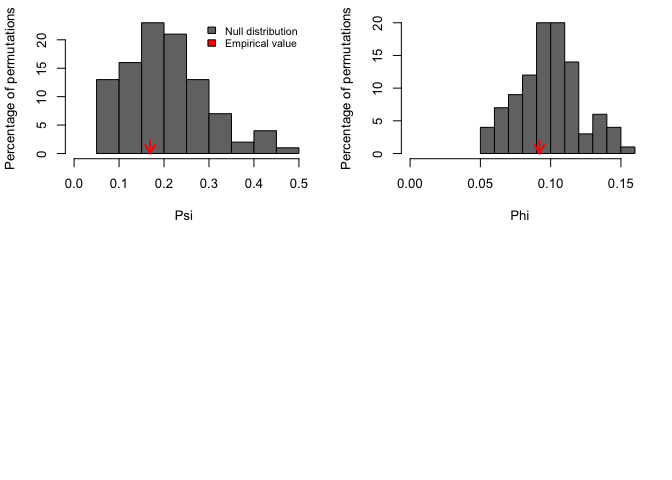
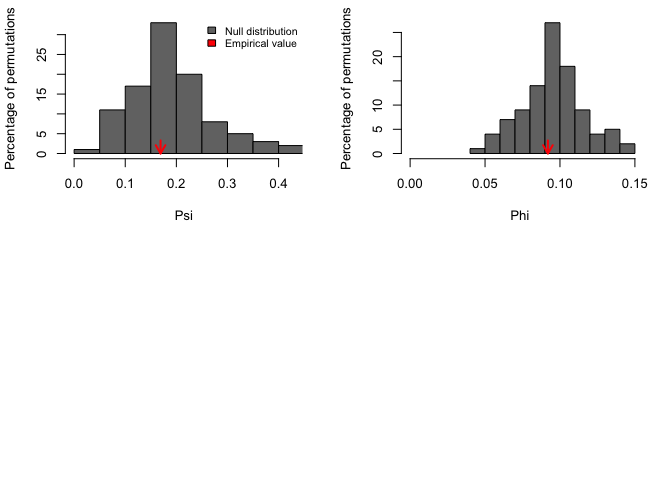
updata datasets

diff --git a/README.md b/README.md
@@ -52,13 +52,47 @@ result<-PCAtest(ex0, 100, 100, 0.05, varcorr=FALSE, counter=FALSE, plot=TRUE)
 #> 100 bootstrap replicates, 100 random permutations
 #> ========================================================
 #> 
-#> Empirical Psi = 0.1691, Max null Psi = 0.4885, Min null Psi = 0.0598, p-value = 0.66
-#> Empirical Phi = 0.0920, Max null Phi = 0.1563, Min null Phi = 0.0547, p-value = 0.66
+#> Empirical Psi = 0.1691, Max null Psi = 0.4296, Min null Psi = 0.0324, p-value = 0.59
+#> Empirical Phi = 0.0920, Max null Phi = 0.1466, Min null Phi = 0.0403, p-value = 0.59
 #> 
 #> PCA is not significant!
 ```
 
 <img src="man/figures/README-example1-1.png" width="100%" />
+
+``` r
+#PCA analysis of five correlated (r=0.25) variables
+data("ex025")
+result<-PCAtest(ex025, 100, 100, 0.05, varcorr=FALSE, counter=FALSE, plot=TRUE)
+#> 
+#> Sampling bootstrap replicates... Please wait
+#> 
+#> Calculating confidence intervals of empirical statistics... Please wait
+#> 
+#> Sampling random permutations... Please wait
+#> 
+#> Comparing empirical statistics with their null distributions... Please wait
+#> 
+#> ========================================================
+#> Test of PCA significance: 5 variables, 100 observations
+#> 100 bootstrap replicates, 100 random permutations
+#> ========================================================
+#> 
+#> Empirical Psi = 1.1327, Max null Psi = 0.5166, Min null Psi = 0.0680, p-value = 0
+#> Empirical Phi = 0.2380, Max null Phi = 0.1607, Min null Phi = 0.0583, p-value = 0
+#> 
+#> Empirical eigenvalue #1 = 1.88693, Max null eigenvalue = 1.57397, p-value = 0
+#> Empirical eigenvalue #2 = 1.01454, Max null eigenvalue = 1.22064, p-value = 0.99
+#> Empirical eigenvalue #3 = 0.8287, Max null eigenvalue = 1.13383, p-value = 1
+#> Empirical eigenvalue #4 = 0.79299, Max null eigenvalue = 0.98174, p-value = 0.94
+#> Empirical eigenvalue #5 = 0.47684, Max null eigenvalue = 0.85547, p-value = 1
+#> 
+#> PC 1 is significant and accounts for 37.7% (95%-CI:33.1-44.1) of the total variation
+#> 
+#> Variables 2, and 3 have significant loadings on PC 1
+```
+
+<img src="man/figures/README-example2-1.png" width="100%" />
 
 ``` r
 #PCA analysis of five correlated (r=0.5) variables
@@ -78,52 +112,16 @@ result<-PCAtest(ex05, 100, 100, 0.05, varcorr=FALSE, counter=FALSE, plot=TRUE)
 #> 100 bootstrap replicates, 100 random permutations
 #> ========================================================
 #> 
-#> Empirical Psi = 5.4655, Max null Psi = 0.4888, Min null Psi = 0.0366, p-value = 0
-#> Empirical Phi = 0.5228, Max null Phi = 0.1563, Min null Phi = 0.0428, p-value = 0
+#> Empirical Psi = 5.4655, Max null Psi = 0.4920, Min null Psi = 0.0634, p-value = 0
+#> Empirical Phi = 0.5228, Max null Phi = 0.1568, Min null Phi = 0.0563, p-value = 0
 #> 
-#> Empirical eigenvalue #1 = 3.08098, Max null eigenvalue = 1.49515, p-value = 0
-#> Empirical eigenvalue #2 = 0.63526, Max null eigenvalue = 1.25543, p-value = 1
-#> Empirical eigenvalue #3 = 0.52603, Max null eigenvalue = 1.10212, p-value = 1
-#> Empirical eigenvalue #4 = 0.43234, Max null eigenvalue = 0.9713, p-value = 1
-#> Empirical eigenvalue #5 = 0.3254, Max null eigenvalue = 0.87495, p-value = 1
+#> Empirical eigenvalue #1 = 3.08098, Max null eigenvalue = 1.55877, p-value = 0
+#> Empirical eigenvalue #2 = 0.63526, Max null eigenvalue = 1.23933, p-value = 1
+#> Empirical eigenvalue #3 = 0.52603, Max null eigenvalue = 1.12528, p-value = 1
+#> Empirical eigenvalue #4 = 0.43234, Max null eigenvalue = 0.97784, p-value = 1
+#> Empirical eigenvalue #5 = 0.3254, Max null eigenvalue = 0.84725, p-value = 1
 #> 
-#> PC 1 is significant and accounts for 61.6% (95%-CI:54.2-68.4) of the total variation
-#> 
-#> Variables 1, 2, 3, 4, and 5 have significant loadings on PC 1
-```
-
-<img src="man/figures/README-example2-1.png" width="100%" />
-
-``` r
-#PCA analysis of five correlated (r=1) variables
-v1<-seq(0,1,0.01)
-v5=v4=v3=v2=v1
-ex1<-cbind(v1,v2,v3,v4,v5)
-result<-PCAtest(ex1, 100, 100, 0.05, varcorr=FALSE, counter=FALSE, plot=TRUE)
-#> 
-#> Sampling bootstrap replicates... Please wait
-#> 
-#> Calculating confidence intervals of empirical statistics... Please wait
-#> 
-#> Sampling random permutations... Please wait
-#> 
-#> Comparing empirical statistics with their null distributions... Please wait
-#> 
-#> ========================================================
-#> Test of PCA significance: 5 variables, 101 observations
-#> 100 bootstrap replicates, 100 random permutations
-#> ========================================================
-#> 
-#> Empirical Psi = 20.0000, Max null Psi = 0.4523, Min null Psi = 0.0642, p-value = 0
-#> Empirical Phi = 1.0000, Max null Phi = 0.1504, Min null Phi = 0.0567, p-value = 0
-#> 
-#> Empirical eigenvalue #1 = 5, Max null eigenvalue = 1.45938, p-value = 0
-#> Empirical eigenvalue #2 = 0, Max null eigenvalue = 1.28214, p-value = 1
-#> Empirical eigenvalue #3 = 0, Max null eigenvalue = 1.11242, p-value = 1
-#> Empirical eigenvalue #4 = 0, Max null eigenvalue = 0.9752, p-value = 1
-#> Empirical eigenvalue #5 = 0, Max null eigenvalue = 0.87284, p-value = 1
-#> 
-#> PC 1 is significant and accounts for 100% (95%-CI:100-100) of the total variation
+#> PC 1 is significant and accounts for 61.6% (95%-CI:54.3-68.3) of the total variation
 #> 
 #> Variables 1, 2, 3, 4, and 5 have significant loadings on PC 1
 ```
@@ -149,18 +147,18 @@ result<-PCAtest(ants, 100, 100, 0.05, varcorr=FALSE, counter=FALSE, plot=TRUE)
 #> 100 bootstrap replicates, 100 random permutations
 #> ========================================================
 #> 
-#> Empirical Psi = 10.9186, Max null Psi = 2.8905, Min null Psi = 0.5908, p-value = 0
-#> Empirical Phi = 0.5099, Max null Phi = 0.2623, Min null Phi = 0.1186, p-value = 0
+#> Empirical Psi = 10.9186, Max null Psi = 2.6890, Min null Psi = 0.4898, p-value = 0
+#> Empirical Phi = 0.5099, Max null Phi = 0.2530, Min null Phi = 0.1080, p-value = 0
 #> 
-#> Empirical eigenvalue #1 = 3.84712, Max null eigenvalue = 2.27488, p-value = 0
-#> Empirical eigenvalue #2 = 1.52017, Max null eigenvalue = 1.73225, p-value = 0.15
-#> Empirical eigenvalue #3 = 0.70634, Max null eigenvalue = 1.39553, p-value = 1
-#> Empirical eigenvalue #4 = 0.41356, Max null eigenvalue = 1.19931, p-value = 1
-#> Empirical eigenvalue #5 = 0.34001, Max null eigenvalue = 0.95849, p-value = 1
-#> Empirical eigenvalue #6 = 0.14515, Max null eigenvalue = 0.77642, p-value = 1
-#> Empirical eigenvalue #7 = 0.02765, Max null eigenvalue = 0.66504, p-value = 1
+#> Empirical eigenvalue #1 = 3.84712, Max null eigenvalue = 2.21709, p-value = 0
+#> Empirical eigenvalue #2 = 1.52017, Max null eigenvalue = 1.88288, p-value = 0.15
+#> Empirical eigenvalue #3 = 0.70634, Max null eigenvalue = 1.39173, p-value = 1
+#> Empirical eigenvalue #4 = 0.41356, Max null eigenvalue = 1.15168, p-value = 1
+#> Empirical eigenvalue #5 = 0.34001, Max null eigenvalue = 1.00704, p-value = 1
+#> Empirical eigenvalue #6 = 0.14515, Max null eigenvalue = 0.7973, p-value = 1
+#> Empirical eigenvalue #7 = 0.02765, Max null eigenvalue = 0.5966, p-value = 1
 #> 
-#> PC 1 is significant and accounts for 55% (95%-CI:44.1-64.7) of the total variation
+#> PC 1 is significant and accounts for 55% (95%-CI:43.8-64.4) of the total variation
 #> 
 #> Variables 1, 2, 3, 4, 5, and 7 have significant loadings on PC 1
 ```
